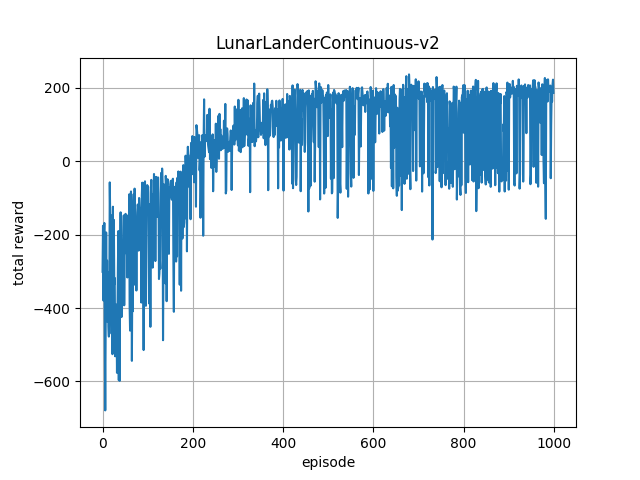
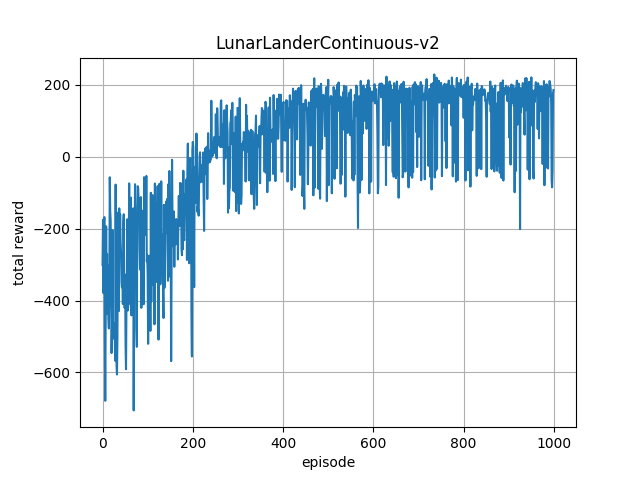
New net package. Slightly optimized(?) PPO. New baseline.

Changed region(s): [[0.0625, 0.1562, 0.9062, 0.8438], [0.0625, 0.75, 0.125, 0.8125]]

diff --git a/rl_toolbox/policy/shared.py b/rl_toolbox/policy/shared.py
@@ -3,11 +3,12 @@ import torch.nn as nn
 import torch.nn.functional as F
 from torch.distributions import Normal
 
-from .common import SmallCNN, SmallRNN
+from .core import Policy
+from ..net.common import SmallCNN, SmallRNN
 from ..util.init import orthogonal_init
 
 
-class CNNPolicy(nn.Module):
+class CNNPolicy(Policy):
     def __init__(self, input_shape, output_shape):
         super(CNNPolicy, self).__init__()
         self.recurrent = False
@@ -39,7 +40,7 @@ class CNNPolicy(nn.Module):
         return mean, std, value
 
 
-class CNNLSTMPolicy(nn.Module):
+class CNNLSTMPolicy(Policy):
     def __init__(self, input_shape, output_shape):
         super(CNNLSTMPolicy, self).__init__()
         self.recurrent = True
@@ -75,11 +76,11 @@ class CNNLSTMPolicy(nn.Module):
         return mean, std, value
 
 
-class MLPPolicy(nn.Module):
+class MLPPolicy(Policy):
     def __init__(self, input_shape, output_shape):
         super(MLPPolicy, self).__init__()
         self.recurrent = False
-        self.pd_fn = Normal
+        self.pd = None
 
         self.pi_fc1 = nn.Linear(input_shape[0], 64)
         self.pi_fc2 = nn.Linear(64, 64)
@@ -101,6 +102,7 @@ class MLPPolicy(nn.Module):
         pi_h2 = F.tanh(self.pi_fc2(pi_h1))
 
         mean = self.mean_fc(pi_h2)
+        # TODO: try tanh
         log_std = self.log_std.expand_as(mean)
         std = torch.exp(log_std)
 
@@ -108,20 +110,26 @@ class MLPPolicy(nn.Module):
         vf_h2 = F.tanh(self.vf_fc2(vf_h1))
         value = self.value_fc(vf_h2)
 
-        return mean, std, value
+        self.pd = Normal(mean, std)
+        action = self.pd.sample()
+
+        return action, value
+
+    def log_prob(self, x):
+        return self.pd.log_prob(x)
 
 
-class MLPLSTMPolicy(nn.Module):  # TODO: Try single rnn layer
+class MLPLSTMPolicy(Policy):  # Note: Try single rnn layer
     def __init__(self, input_shape, output_shape):
         super(MLPLSTMPolicy, self).__init__()
         self.recurrent = True
         self.pd_fn = Normal
 
-        self.pi_rnn = SmallRNN(input_shape[0], 64)
-        self.pi_fc = nn.Linear(64, 64)
+        self.pi_fc = nn.Linear(input_shape[0], 64)
+        self.pi_rnn = SmallRNN(64, 64)
 
-        self.vf_rnn = SmallRNN(input_shape[0], 64)
-        self.vf_fc = nn.Linear(64, 64)
+        self.vf_fc = nn.Linear(input_shape[0], 64)
+        self.vf_rnn = SmallRNN(64, 64)
 
         self.mean_fc = nn.Linear(64, output_shape[0])
         self.log_std = nn.Parameter(torch.zeros(output_shape[0]))
@@ -133,15 +141,15 @@ class MLPLSTMPolicy(nn.Module):  # TODO: Try single rnn layer
         self.cuda()
 
     def forward(self, x):
-        pi_h1 = F.tanh(self.pi_rnn(x))
-        pi_h2 = F.tanh(self.pi_fc(pi_h1))
+        pi_h1 = F.tanh(self.pi_fc(x))
+        pi_h2 = F.tanh(self.pi_rnn(pi_h1))
 
         mean = self.mean_fc(pi_h2)
         log_std = self.log_std.expand_as(mean)
         std = torch.exp(log_std)
 
-        vf_h1 = F.tanh(self.vf_rnn(x))
-        vf_h2 = F.tanh(self.vf_fc(vf_h1))
+        vf_h1 = F.tanh(self.vf_fc(x))
+        vf_h2 = F.tanh(self.vf_rnn(vf_h1))
         value = self.value_fc(vf_h2)
 
         return mean, std, value

diff --git a/rl_toolbox/agent/ppo.py b/rl_toolbox/agent/ppo.py
@@ -2,7 +2,6 @@ import copy
 
 import torch
 from torch.autograd import Variable
-from torch.distributions import Normal
 from torch.nn.utils import clip_grad_norm
 from torch.optim import Adam, RMSprop
 from torch.utils.data import DataLoader
@@ -60,14 +59,10 @@ class PPOAgent(Agent):
     def act(self, state, reward=0., done=False):
         state_t = preprocessing_state(state)
 
-        mean_v, std_v, value_v = self.policy_old(Variable(state_t.cuda(), volatile=True))
+        action_v, value_v = self.policy_old(Variable(state_t.cuda(), volatile=True))
+        action_t = action_v.data.cpu()
 
         if self.train:
-            m_v = self.policy_old.pd_fn(mean_v, std_v)
-            action_v = m_v.sample()
-
-            action_t = action_v.data.cpu()
-
             value_t = value_v.data.cpu()
             reward_t = torch.zeros_like(value_t) + reward
 
@@ -78,10 +73,7 @@ class PPOAgent(Agent):
                 self._update_policy()
                 self.replay_buffer.clear()
 
-            self.stored = [state_t, value_t, action_t, m_v.log_prob(action_v).data.cpu()]
-
-        else:
-            action_t = mean_v.data.cpu()
+            self.stored = [state_t, value_t, action_t, self.policy_old.log_prob(action_v).data.cpu()]
 
         return torch.clamp(action_t, -self.abs_output_limit, self.abs_output_limit).numpy()[0]
 
@@ -117,9 +109,8 @@ class PPOAgent(Agent):
                 log_probs_old_v = Variable(log_probs_old_t.cuda())
                 values_old_v = Variable(values_old_t.cuda())
 
-                means_v, stds_v, values_v = self.policy(states_v)
-                m_v = Normal(means_v, stds_v)
-                log_probs_v = m_v.log_prob(actions_old_v)
+                _, values_v = self.policy(states_v)
+                log_probs_v = self.policy.log_prob(actions_old_v)
 
                 ratio = torch.exp(log_probs_v - log_probs_old_v)
 

diff --git a/rl_toolbox/util/common.py b/rl_toolbox/util/common.py
@@ -1,4 +1,5 @@
 import torch
+from torch.distributions import Distribution, Normal
 from torch.utils.data import Dataset
 from torchvision.transforms import ToTensor
 
@@ -34,3 +35,35 @@ class TensorDataset(Dataset):
 
     def __len__(self):
         return self.tensors[0].size(0)
+
+
+class MixtureNormal(Distribution):  # TODO: Sample. Test.
+    def __init__(self, pi, mean, std):
+        self.pi = pi
+        self.mean = mean
+        self.std = std
+        self.m = Normal(self.mean, self.std)
+
+    def sample(self):
+        use_cuda = self.pi.is_cuda
+
+        # shape = None
+        # z = torch.normal(torch.zero(shape), torch.ones(shape))
+        # k = torch.argmax(torch.log(x) + z)
+        #
+        # indices = (np.arange(n_samples), k)
+        # rn = torch.randn(n_samples)
+        # sampled = rn * self.std[indices] + self.meanindices]
+        # return torch.FloatTensor(sample).cuda() if use_cuda else torch.FloatTensor(sample)
+
+    def sample_n(self, n):
+        raise NotImplementedError
+
+    def log_prob(self, value):
+        value = value.expand_as(self.mean)
+        log_probs = self.m.log_prob(value)
+        probs = torch.exp(log_probs)
+        weighted_probs = self.pi * probs
+        sum_prob = torch.sum(weighted_probs, -1)
+        sum_log_prob = torch.log(sum_prob)
+        return sum_log_prob

diff --git a/rl_toolbox/net/mdn.py b/rl_toolbox/net/mdn.py
@@ -1,0 +1,32 @@
+import torch
+import torch.nn as nn
+import torch.nn.functional as F
+
+
+class MixtureDensityNetwork(nn.Module):  # TODO(2nd): Test.
+    def __init__(self, input_shape, output_shape, num_mixture):
+        super(MixtureDensityNetwork, self).__init__()
+        self.num_mixture = num_mixture
+        self.output_shape = output_shape
+
+        self.fc1 = nn.Linear(input_shape[0], 512)
+
+        self.pi_fc = nn.Linear(512, output_shape[0])
+        self.log_std_fc = nn.Linear(512, output_shape[0])
+        self.mean_fc = nn.Linear(512, output_shape[0])
+
+    def forward(self, x):
+        h1 = F.tanh(self.fc1(x))
+
+        pi_h = self.pi_fc(h1)
+        pi_h = pi_h.view(pi_h.size(0), self.output_shape[0], self.num_mixture)  # TODO: try ConvTranspose2d
+        pi = F.softmax(pi_h, -1)
+
+        mean_h = self.mean_fc(h1)
+        mean = mean_h.view(mean_h.size(0), self.output_shape[0], self.num_mixture)
+
+        log_std_h = self.log_std_fc(h1)
+        log_std = log_std_h.view(log_std_h.size(0), self.output_shape[0], self.num_mixture)
+        std = torch.exp(log_std)
+
+        return pi, mean, std

diff --git a/collect_data.py b/collect_data.py
@@ -10,11 +10,6 @@ def get_args():
     parser.add_argument('--env-name', type=str, default='CarRacing-v0', metavar='N',
                         help='name of gym environments.')
 
-    parser.add_argument('--load', action='store_true', default=True,
-                        help='load trained weights.')
-    parser.add_argument('--weights-path', type=str, default='./weights/vae_weights.pth', metavar='N',
-                        help='where the weights file is.')
-
     parser.add_argument('--data-path', type=str, default='./data/', metavar='N',
                         help='where the data file is.')
 
@@ -27,8 +22,8 @@ def get_args():
     parser.add_argument('--epochs', type=int, default=10, metavar='N',
                         help='number of epochs to train (default: 10)')
 
-    parser.add_argument('--seed', type=int, default=1, metavar='S',
-                        help='random seed (default: 1)')
+    parser.add_argument('--seed', type=int, default=123, metavar='S',
+                        help='random seed (default: 123)')
 
     return parser.parse_args()
 

diff --git a/train_vae.py b/train_vae.py
@@ -9,7 +9,7 @@ from torch.autograd import Variable
 from torch.utils.data.dataset import random_split
 from torchvision.utils import save_image
 
-from rl_toolbox.policy import VAE, vae_loss
+from rl_toolbox.net.vae import VAE, vae_loss
 from rl_toolbox.util.common import preprocessing_state, TensorDataset
 
 parser = argparse.ArgumentParser(description='Train VAE')
@@ -25,8 +25,8 @@ parser.add_argument('--epochs', type=int, default=10, metavar='N',
                     help='number of epochs to train (default: 10)')
 parser.add_argument('--no-cuda', action='store_true', default=False,
                     help='enables CUDA training')
-parser.add_argument('--seed', type=int, default=1, metavar='S',
-                    help='random seed (default: 1)')
+parser.add_argument('--seed', type=int, default=123, metavar='S',
+                    help='random seed (default: 123)')
 parser.add_argument('--log-interval', type=int, default=10, metavar='N',
                     help='how many batches to wait before logging training status')
 args = parser.parse_args()

diff --git a/train_ppo.py b/train_ppo.py
@@ -2,7 +2,7 @@ import argparse
 
 from rl_toolbox import Runner
 from rl_toolbox.agent import PPOAgent
-from rl_toolbox.policy import MLPPolicy,CNNPolicy,MLPLSTMPolicy
+from rl_toolbox.policy import MLPPolicy, CNNPolicy, MLPLSTMPolicy
 
 
 def get_args():
@@ -37,12 +37,12 @@ def main():
     runner = Runner(
         'LunarLanderContinuous-v2',
         PPOAgent,
-        MLPLSTMPolicy,
+        MLPPolicy,
         record_data=False,
         data_path=None,
         save=True,
         load=False,
-        weight_path='./weights/mlp_policy_weights.pth')
+        weight_path='./weights/mlp_lstm_policy_weights.pth')
 
     # runner = Runner(
     #     'CarRacing-v0',

diff --git a/rl_toolbox/policy/core.py b/rl_toolbox/policy/core.py
@@ -1,0 +1,9 @@
+import torch.nn as nn
+
+
+class Policy(nn.Module):
+    def forward(self, x):
+        raise NotImplementedError
+
+    def log_prob(self, x):
+        raise NotImplementedError

diff --git a/rl_toolbox/policy/__init__.py b/rl_toolbox/policy/__init__.py
@@ -1,3 +1,1 @@
-from .mdn import MixtureDensityNetwork, mdn_loss
 from .shared import CNNPolicy, CNNLSTMPolicy, MLPPolicy, MLPLSTMPolicy
-from .vae import VAE, vae_loss

diff --git a/README.md b/README.md
@@ -1,13 +1,15 @@
 # Reinforcement learning toolbox (Unfinished)
 Some Reinforcement learning algorithms implemented in PyTorch.
 ## 1. Result
-<img src="image/result1.png" align="middle" width="300"/>
+<img src="image/MLP.png" align="middle" width="300"/>
+<img src="image/MLPLSTM.png" align="middle" width="300"/>
 
 ## 2. Setup
 Install dependencies according to [requirements.txt](requirements.txt).
 ## 3. Run
 
     python3 test_ppo.py
+    python3
 ## 4. TODO
 [Noisy Networks for Exploration](https://arxiv.org/abs/1706.10295)
 
